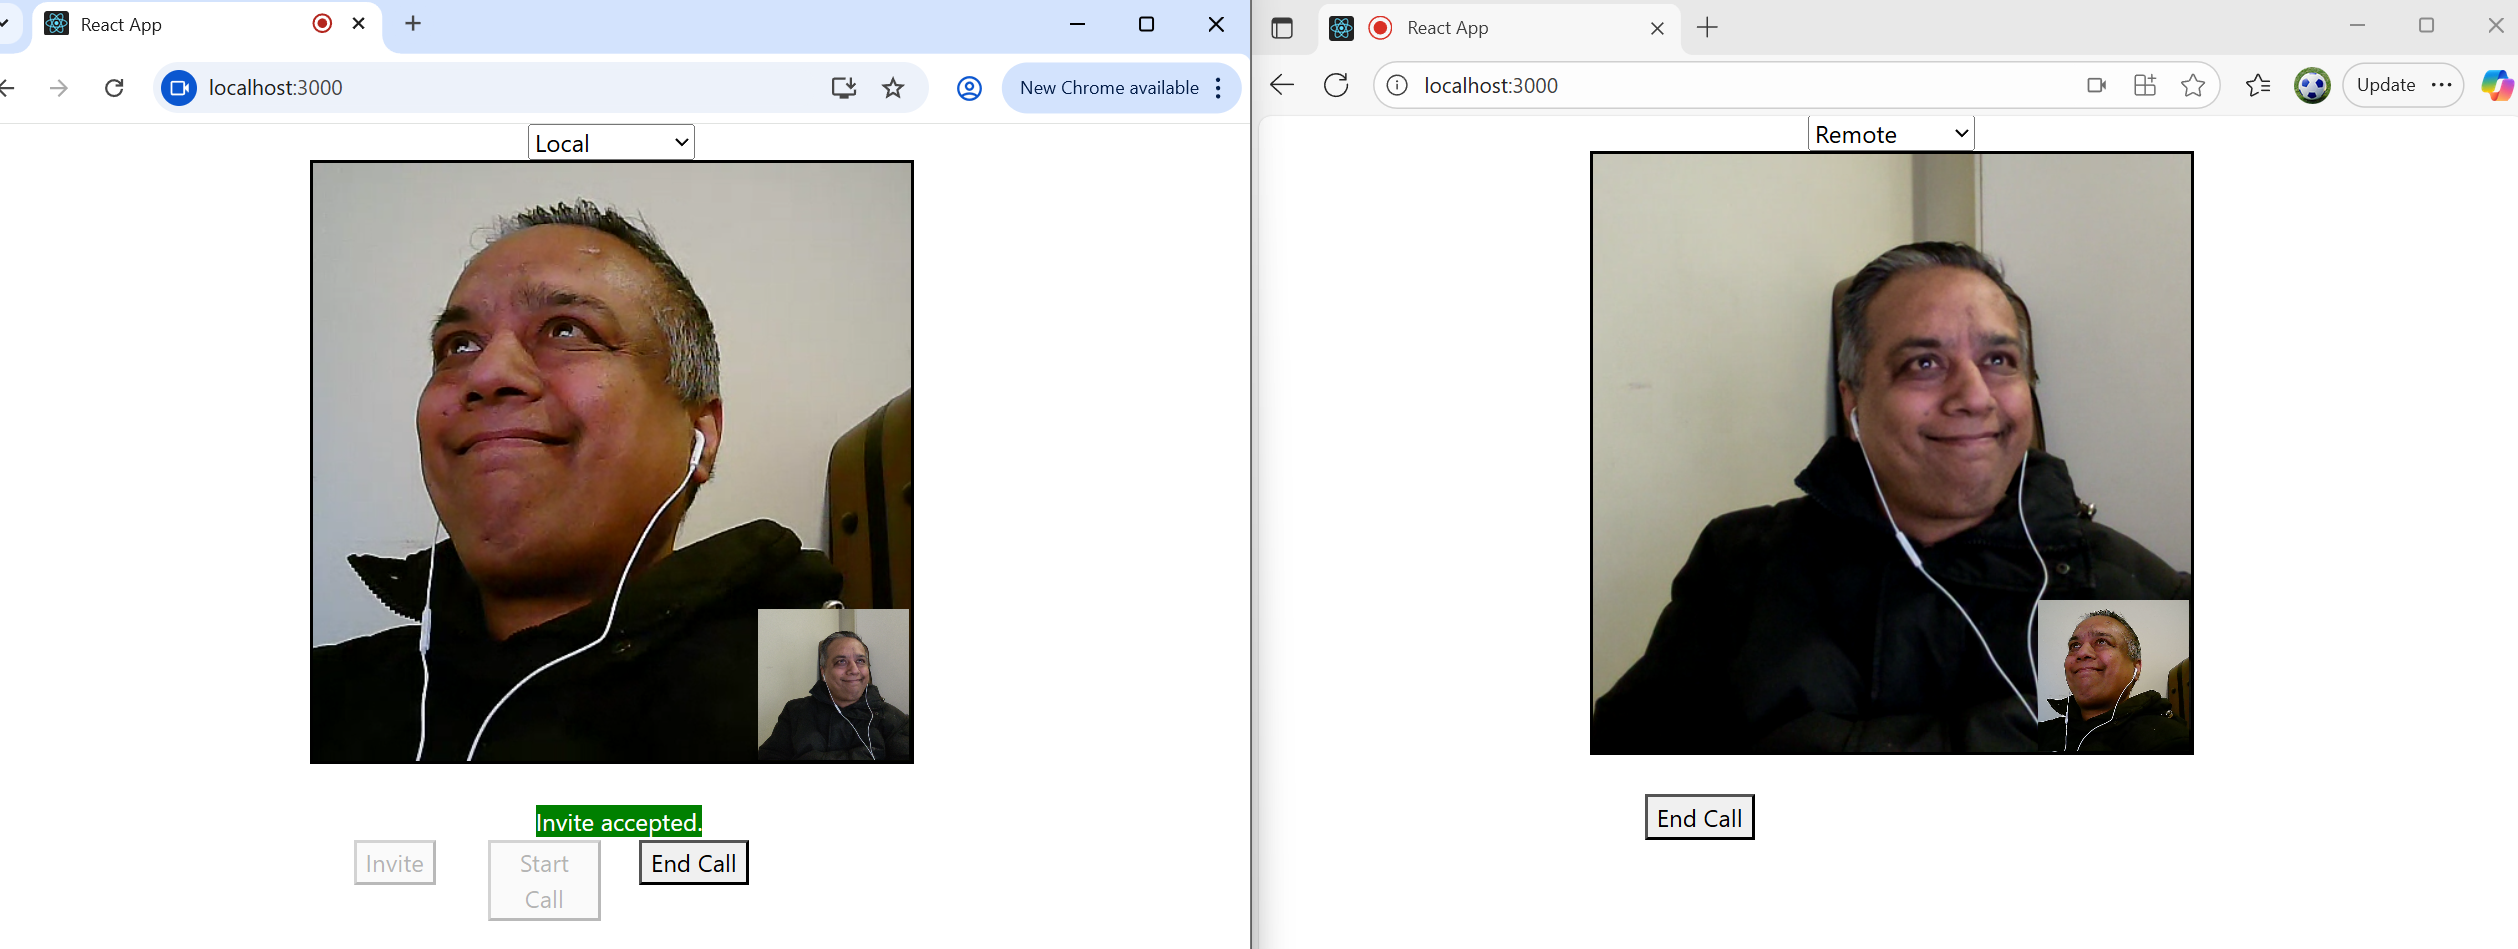
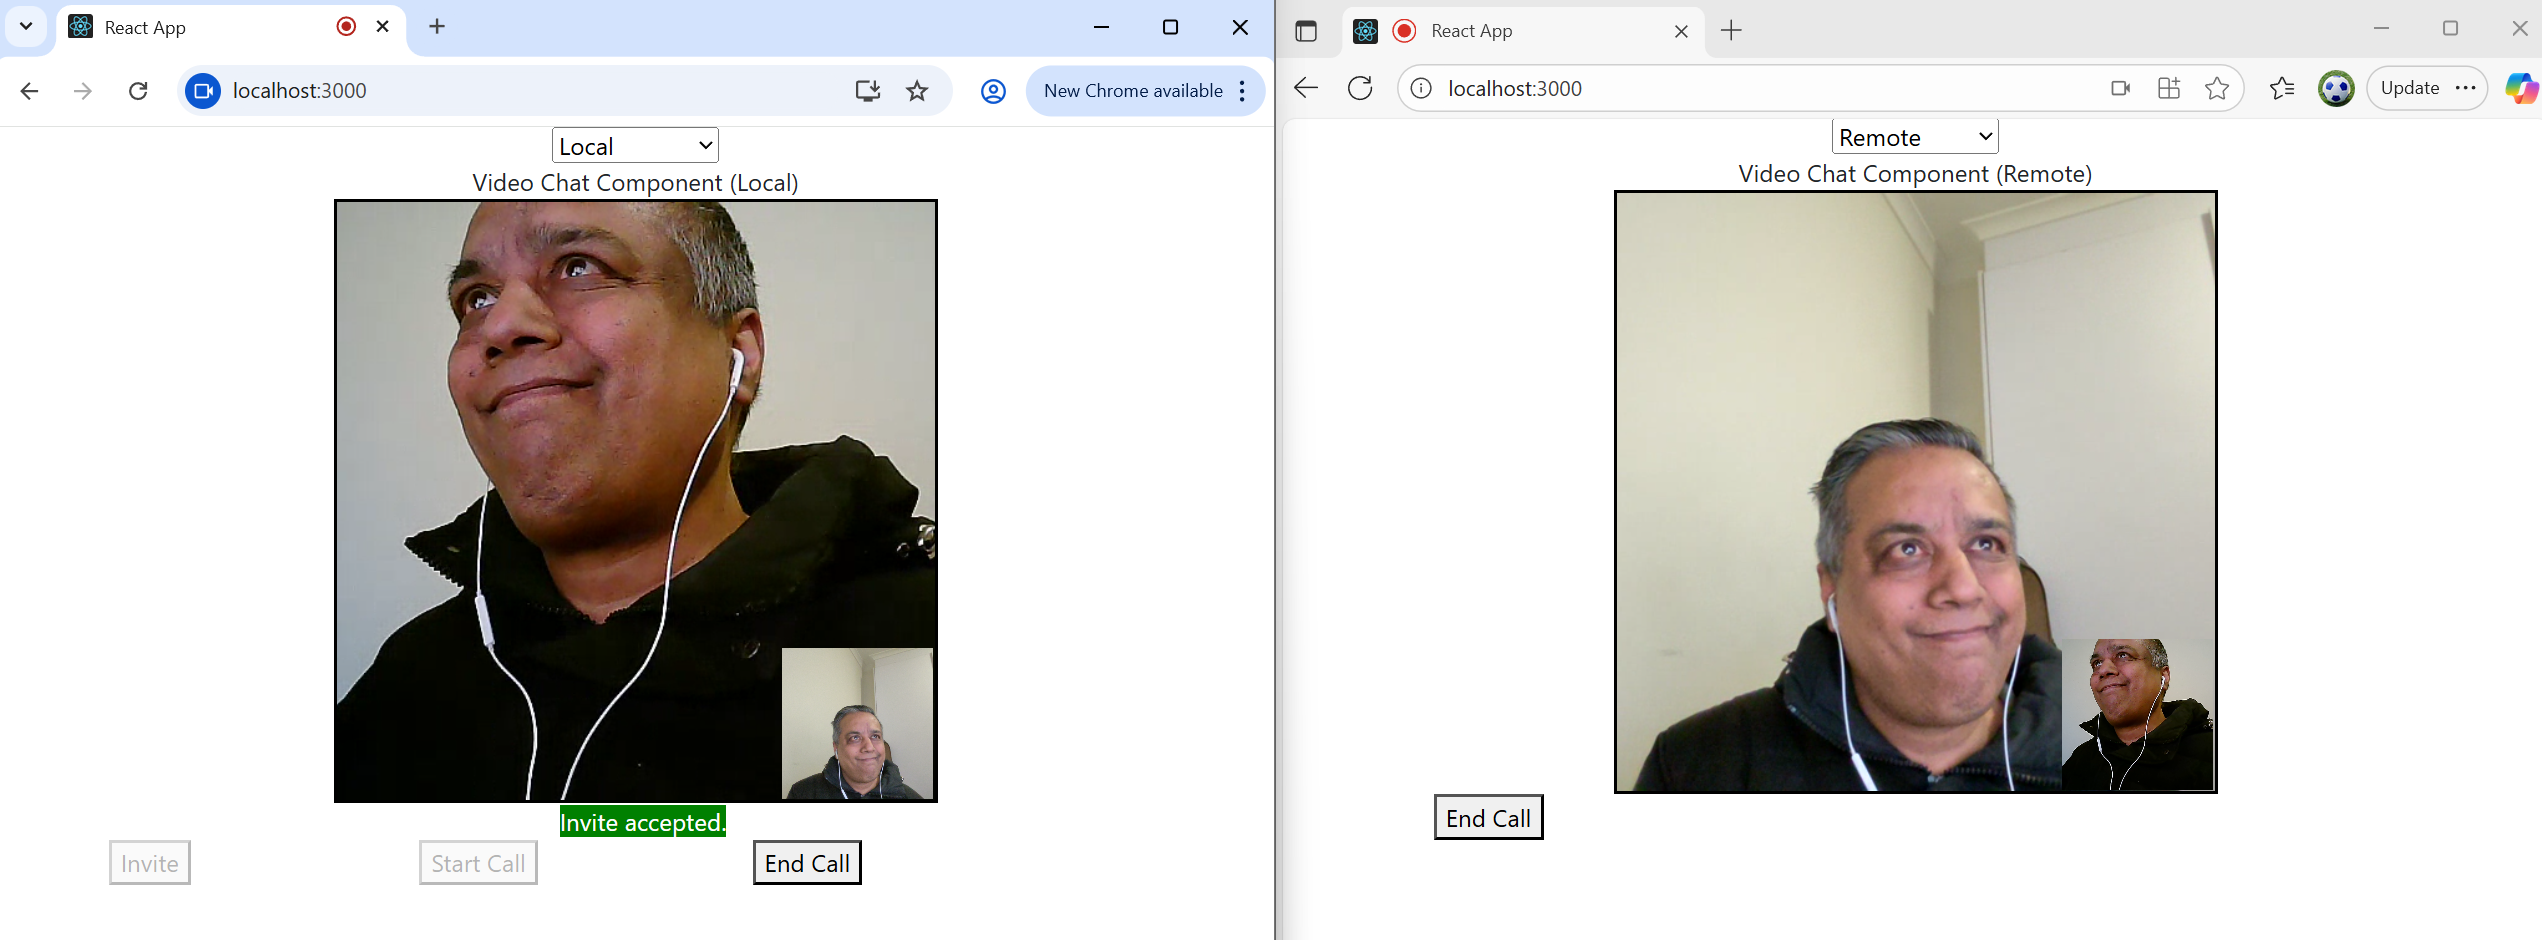
minor refactoring.

Changed region(s): [[0.0, 0.0, 1.0, 1.0], [0.1239, 0.1234, 0.3717, 0.9564], [0.031, 0.8947, 0.0929, 0.9255]]

diff --git a/sample-react-web-app/src/components/VideoChat.tsx b/sample-react-web-app/src/components/VideoChat.tsx
@@ -149,19 +149,21 @@ const VideoChat: React.FC<VideoChatProps> = ({ videoChatService, userType }) => 
     }
 
     return (
-        <div className="container">
+        <div>
             <div>        
                 Video Chat Component ({userType === UserType.Local ? "Local" : "Remote"})
             </div>
             
             <MyErrorMessage show={_showError} />
-                            
-            <div id="video-grid">
-                <video className="overlay" id="localVideo" autoPlay muted>
-                </video>
-                <video className="background" id="remoteVideo" autoPlay>
-                </video>
-            </div>
+
+            <div className="container">
+                <div id="video-grid">
+                    <video className="overlay" id="localVideo" autoPlay muted>
+                    </video>
+                    <video className="background" id="remoteVideo" autoPlay>
+                    </video>
+                </div>
+            </div>                                    
 
             <InviteAccepted show={_inviteAccepted} />
 

diff --git a/sample-angular-web-app/src/app/components/video-chat/video-chat.component.html b/sample-angular-web-app/src/app/components/video-chat/video-chat.component.html
@@ -1,4 +1,4 @@
-<div class="container">
+<div>
     @if(_showError){
         <div class="row">
             <div class="col-12" style="margin-left: 5px;">
@@ -6,12 +6,14 @@
             </div>
         </div>
     }
-    <div id="video-grid">
-        <video class="overlay" id="localVideo" autoplay muted>
-        </video>
-        <video class="background" id="remoteVideo" autoplay>
-        </video>
-    </div>
+    <div class="container">
+        <div id="video-grid">
+            <video class="overlay" id="localVideo" autoplay muted>
+            </video>
+            <video class="background" id="remoteVideo" autoplay>
+            </video>
+        </div>
+    </div>    
     <br />
     @if (_inviteAccepted) {
         <div class="row">
